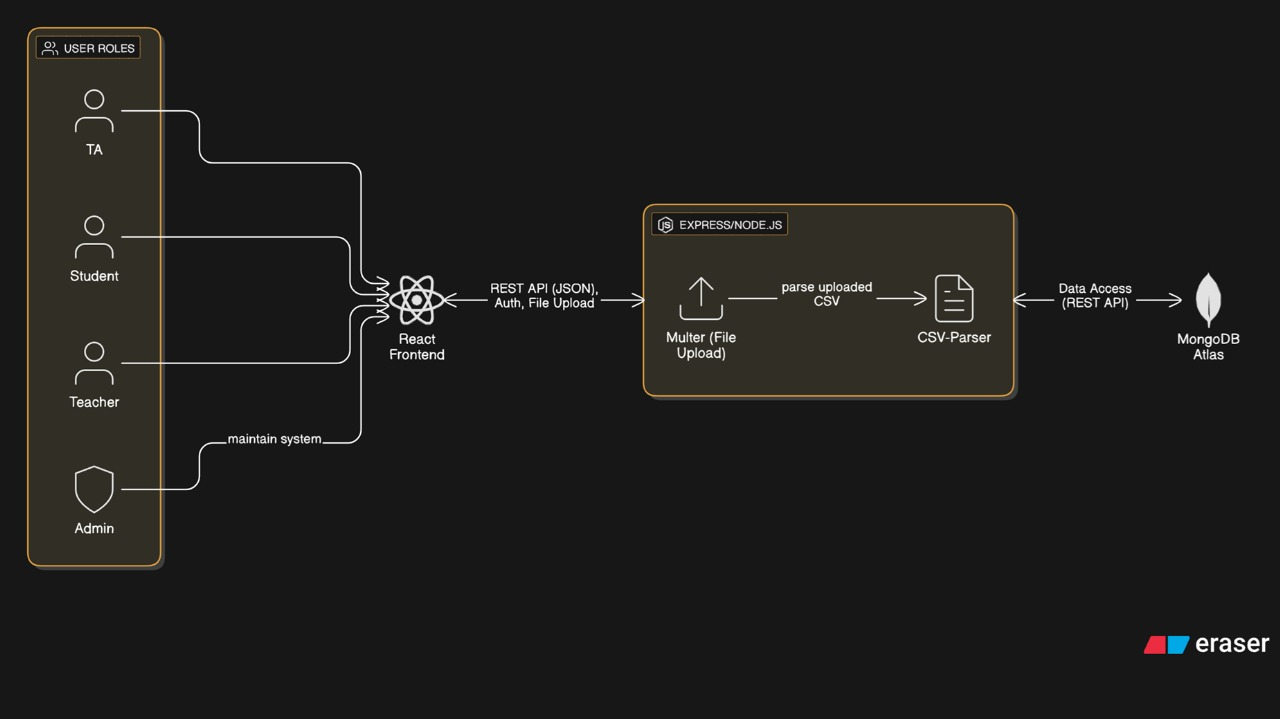
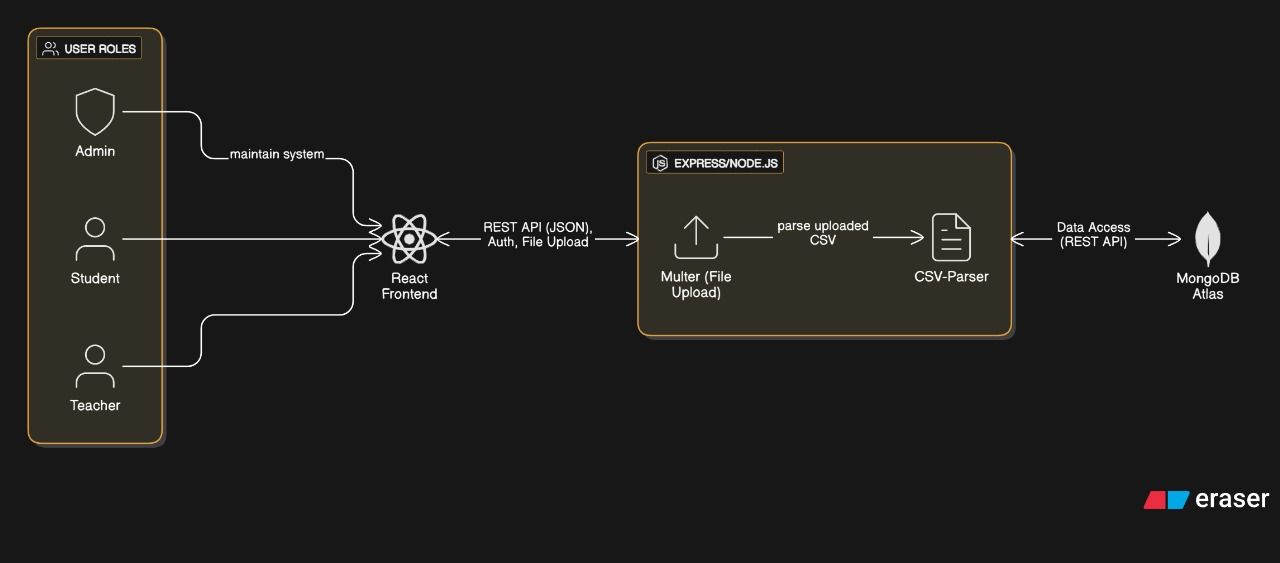
mergin admin related changes and updating readme

Changed region(s): [[0.0, 0.0302, 0.9688, 0.7549], [0.875, 0.8455, 1.0, 0.9059], [0.0312, 0.7851, 0.125, 0.8153]]

diff --git a/Backend/src/controller/adminController.js b/Backend/src/controller/adminController.js
@@ -1,0 +1,118 @@
+import CourseMappingSchema from "../models/courseMappingModel";
+
+async function uploadInstructorMapping(courseName, instructorEmail) {
+    try {
+        // Use findOneAndUpdate with upsert: true
+        const result = await CourseMapping.findOneAndUpdate(
+            // 1. QUERY: Find a document where the courseName matches
+            { courseName: courseName },
+
+            // 2. UPDATE: Set the description and conditionally push the new email
+            {
+                // $set ensures the description is updated every time
+                $set: { courseDesc: courseDesc },
+                
+                // $addToSet ensures the email is only added if it's NOT already in the array
+                $addToSet: { instructorEmail: instructorEmail }
+            },
+
+            // 3. OPTIONS: 
+            {
+                new: true, // Return the modified document rather than the original
+                upsert: true, // IMPORTANT: Create the document if it doesn't exist
+                runValidators: true, // Run Mongoose schema validators
+            }
+        );
+        
+        return { 
+            courseName: result.courseName, 
+            status: result ? 'Updated/Created' : 'Failed' 
+        };
+
+    } catch (error) {
+        console.error(`Error processing course mapping for ${courseName}:`, error);
+        throw new Error(`Failed to upload instructor mapping: ${error.message}`);
+    }
+}
+/**
+ * @param {string} courseName - The name of the course (unique identifier).
+ * @param {string} taEmail - The email of the TA to add.
+ * @returns {Object} - The result of the upsert operation.
+ */
+async function uploadTAMapping(courseName, taEmail) {
+    try {
+        // Use findOneAndUpdate with upsert: true
+        const result = await CourseMapping.findOneAndUpdate(
+            // 1. QUERY: Find a document where the courseName matches
+            { courseName: courseName },
+
+            {
+                // $addToSet ensures the email is only added if it's NOT already in the array
+                $addToSet: { taEmail: taEmail }
+            },
+
+            // 3. OPTIONS: 
+            {
+                new: true, 
+                upsert: true, 
+                runValidators: true, 
+            }
+        );
+        
+        return { 
+            courseName: result.courseName, 
+            status: result ? 'Updated/Created' : 'Failed' 
+        };
+
+    } catch (error) {
+        console.error(`Error processing TA mapping for ${courseName}:`, error);
+        throw new Error(`Failed to upload TA mapping: ${error.message}`);
+    }
+}
+
+/**
+ * Handles the upsert logic for a single course-Student mapping row (No course description update).
+ * If the course exists, it pushes the student email if not present.
+ * If the course does not exist, it creates the new course document.
+ * @param {string} courseName - The name of the course (unique identifier).
+ * @param {string} studentEmail - The email of the student to add.
+ * @returns {Object} - The result of the upsert operation.
+ */
+async function uploadStudentMapping(courseName, studentEmail) {
+    try {
+        // Use findOneAndUpdate with upsert: true
+        const result = await CourseMapping.findOneAndUpdate(
+            // 1. QUERY: Find a document where the courseName matches
+            { courseName: courseName },
+
+            // 2. UPDATE: Conditionally push the new student email
+            {
+                // $addToSet ensures the email is only added if it's NOT already in the array
+                $addToSet: { studentEmail: studentEmail }
+            },
+
+            // 3. OPTIONS: 
+            {
+                new: true, // Return the modified document rather than the original
+                upsert: true, // IMPORTANT: Create the document if it doesn't exist
+                runValidators: true, // Run Mongoose schema validators
+            }
+        );
+        
+        return { 
+            courseName: result.courseName, 
+            status: result ? 'Updated/Created' : 'Failed' 
+        };
+
+    } catch (error) {
+        console.error(`Error processing student mapping for ${courseName}:`, error);
+        throw new Error(`Failed to upload student mapping: ${error.message}`);
+    }
+}
+
+
+export default {
+    uploadInstructorMapping,
+    uploadTAMapping,
+    uploadStudentMapping
+};

diff --git a/Backend/src/routes/adminRouter.js b/Backend/src/routes/adminRouter.js
@@ -1,0 +1,83 @@
+import express from 'express';
+import adminController from '../controller/adminController.js'; 
+
+
+
+const router = express.Router();
+
+// Middleware for basic validation of course-related requests
+const validateCourseRequest = (req, res, next) => {
+    const { courseName } = req.body;
+    if (!courseName) {
+        return res.status(400).json({ message: 'Course name is a required field.' });
+    }
+    next();
+};
+
+
+// --- POST Routes for Uploading Mappings ---
+
+/**
+ * @route   POST /api/courses/instructor-mapping
+ * @desc    Create or update a course with its description and add an instructor.
+ * @access  Private (assumed)
+ */
+router.post("/instructor-mapping", async (req, res) => {
+    const { courseName, instructorEmail } = req.body;
+
+    if (!courseName || !courseDesc || !instructorEmail) {
+        return res.status(400).json({ message: "Missing required fields: courseName, and instructorEmail." });
+    }
+
+    try {
+        const result = await adminController.uploadInstructorMapping(courseName, instructorEmail);
+        res.status(201).json({ message: "Instructor mapping processed successfully.", data: result });
+    } catch (error) {
+        res.status(500).json({ message: "Failed to process instructor mapping.", error: error.message });
+    }
+});
+
+/**
+ * @route   POST /api/courses/ta-mapping
+ * @desc    Add a TA to a course. Creates the course if it doesn't exist.
+ * @access  Private (assumed)
+ */
+router.post("/ta-mapping", validateCourseRequest, async (req, res) => {
+    const { courseName, taEmail } = req.body;
+
+    if (!taEmail) {
+        return res.status(400).json({ message: "TA email is a required field." });
+    }
+
+    try {
+        const result = await adminController.uploadTAMapping(courseName, taEmail);
+        res.status(201).json({ message: "TA mapping processed successfully.", data: result });
+    } catch (error) {
+        res.status(500).json({ message: "Failed to process TA mapping.", error: error.message });
+    }
+});
+
+/**
+ * @route   POST /api/courses/student-mapping
+ * @desc    Add a student to a course. Creates the course if it doesn't exist.
+ * @access  Private (assumed)
+ */
+router.post("/student-mapping", validateCourseRequest, async (req, res) => {
+    const { courseName, studentEmail } = req.body;
+
+    if (!studentEmail) {
+        return res.status(400).json({ message: "Student email is a required field." });
+    }
+    
+    try {
+        const result = await adminController.uploadStudentMapping(courseName, studentEmail);
+        res.status(201).json({ message: "Student mapping processed successfully.", data: result });
+    } catch (error) {
+        res.status(500).json({ message: "Failed to process student mapping.", error: error.message });
+    }
+});
+
+
+
+
+export default router;

diff --git a/Frontend/src/App.jsx b/Frontend/src/App.jsx
@@ -8,6 +8,7 @@ import OTPVerification from './components/OTPVerification'
 import Login from './components/Login'
 import ForgotPassword from './components/ForgotPassword';
 import ResetPassword from './components/ResetPassword';
+import Admin from './components/AdminPage'
 
 export default function App() {
   return (
@@ -21,6 +22,7 @@ export default function App() {
           <Route path="/welcome" element={<WelcomePage/>} />
           <Route path="/forgetpasswordotp" element={<ForgotPassword/>}/> 
           <Route path="/resetpassword" element={<ResetPassword/>}/> 
+          <Route path="/admin" element={<Admin/>}/> 
        </Routes>
     </Router>
   );

diff --git a/README.MD b/README.MD
@@ -12,7 +12,7 @@ This application is built using the **MERN** stack, which ensures questions are 
 
 ### 💭 Assumptions
 The following assumptions were made during the development of this application:
-* The Questions DB is live and relevant for only a term and the data will be refreshed at the end of the term.
+* The VidyaVichar  Questions DB is live and relevant for only a term and the data will be refreshed at the end of the term.
 * Users will be signing in with their institute email ID and map their name to the email ID in the signup form.
 * An Admin user will upload the mapping of a Course to Instructor to TA to Students before any other users sign in.
 * The system will not handle any actions related to answers and any next steps as getting vocal answers is not possible at the moment.
@@ -45,12 +45,6 @@ The Admin manages course mappings by uploading CSV files. The Admin ID will uplo
 * They can see the current live questions.
 * Instructors can mark a question as answered and can mark the class as closed, which makes the questions not visible to instructor or student roles.
 
-#### **5. TA View**
-* TAs select the course to work on for the session.
-* After entering the course, the TA sees all the questions that are not answered and not live (archived).
-* TAs can mark the questions as answered based on whatever next steps they need to perform.
-
----
 
 ### 🖼 Solution Diagram
 This diagram illustrates the architecture of the VidyaVichar application, showing how the different components of the MERN stack interact to provide a seamless user experience.
@@ -88,6 +82,7 @@ To set up the application, we need to follow the following steps.
 2.  **Install Backend Dependencies**:
     Go to the backend folder and run the following commands.
     ```bash
+    npm install
     npm install express
     npm install dotenv
     npm install -g nodemon
@@ -100,8 +95,8 @@ To set up the application, we need to follow the following steps.
     npm install
     ```
 4.  **Run the Application (in bash)**:
-    * In the `backend` folder, run `node server.js`.
-    * In the `frontend` folder, run `npm start`.
+    * In the `Backend` folder, run `node server.js`.
+    * In the `Frontend` folder, run `npm start`.
 
 Git Repository: https://github.com/geethamGT3RS/VidyaVichar.
 
